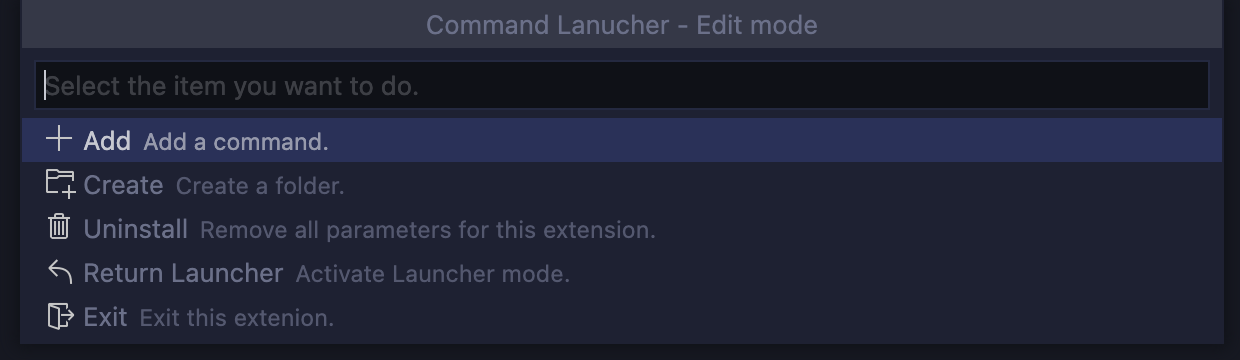
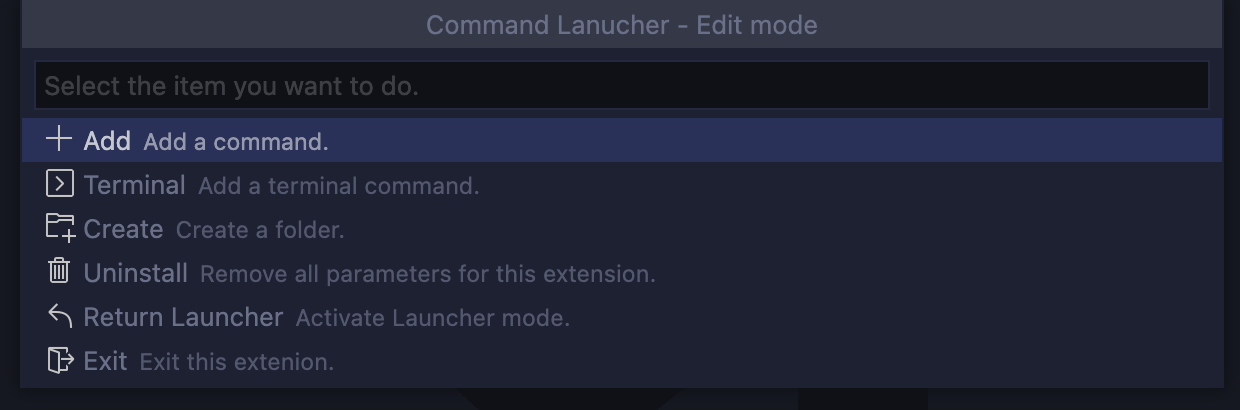
Added the function to also manage commands to be executed in the terminal.

diff --git a/src/test/suite/Scenario/execute.test.ts b/src/test/suite/Scenario/execute.test.ts
@@ -52,6 +52,12 @@ suite('Scenario - Command Execute', async () => {
 				}
 			}
 		},
+		"WordPress開発環境を起動する。": {
+			"command": "wp-env start",
+			"type": 3,
+			"label": "$(run)",
+			"description": "wp-env start を実行します。"
+		},
 		"履歴": {
 			"description": "VSCodeの履歴に関するコマンドセットです。",
 			"label": "$(history)",
@@ -117,11 +123,12 @@ suite('Scenario - Command Execute', async () => {
 	const items        = {
 		back: VSCodePreset.create(VSCodePreset.icons.reply,   'Return', 'Back to previous.'),
 		exit: VSCodePreset.create(VSCodePreset.icons.signOut, 'Exit',   'Exit this extenion.'),
-		"新しいノートを作成する。": { label: "$(notebook) 新しいノートを作成する。", description: "VSNotesで新しいノートを作成します。" } as QuickPickItem,
-		"VSNotes":              { label: "$(notebook-template) VSNotes",     description: "VSNotes関連のコマンドセットです。" } as QuickPickItem,
-		"作成":                  { label: "$(edit) 作成",                     description: "VSNotesのノート作成関連のコマンドセットです。" } as QuickPickItem,
-		"設定":                  { label: "$(settings) 設定",                 description: "VSCodeの設定を行うコマンドセットです。" } as QuickPickItem, 
-		"設定 (JSON) を開く。":   { label: "$(json) 設定 (JSON) を開く。",       description: "設定 (JSON) を開きます。" } as QuickPickItem,
+		"新しいノートを作成する。":       { label: "$(notebook) 新しいノートを作成する。", description: "VSNotesで新しいノートを作成します。" } as QuickPickItem,
+		"VSNotes":                    { label: "$(notebook-template) VSNotes",     description: "VSNotes関連のコマンドセットです。" } as QuickPickItem,
+		"WordPress開発環境を起動する。": { label: "$(run) WordPress開発環境を起動する。", description: "wp-env start を実行します。" } as QuickPickItem,
+		"作成":                        { label: "$(edit) 作成",                     description: "VSNotesのノート作成関連のコマンドセットです。" } as QuickPickItem,
+		"設定":                        { label: "$(settings) 設定",                 description: "VSCodeの設定を行うコマンドセットです。" } as QuickPickItem, 
+		"設定 (JSON) を開く。":         { label: "$(json) 設定 (JSON) を開く。",       description: "設定 (JSON) を開きます。" } as QuickPickItem,
 	};
 
 	test('Menu -> Command', async () => {
@@ -129,7 +136,7 @@ suite('Scenario - Command Execute', async () => {
 		setup.commands = data;
 		await setup.commit();
 
-		const state    = stateCreater();
+		let   state    = stateCreater();
 		const pickStub = sinon.stub(MultiStepInput.prototype, "showQuickPick");
 
 		pickStub.resolves(items['新しいノートを作成する。']);
@@ -137,6 +144,16 @@ suite('Scenario - Command Execute', async () => {
 		await MultiStepInput.run((input: MultiStepInput) => new testTarget.MenuGuide(state, true, context).start(input));
 
 		assert.strictEqual(data['新しいノートを作成する。']['command'], state.command);
+
+		pickStub.reset();
+
+		state          = stateCreater();
+
+		pickStub.resolves(items['WordPress開発環境を起動する。']);
+
+		await MultiStepInput.run((input: MultiStepInput) => new testTarget.MenuGuide(state, true, context).start(input));
+
+		assert.strictEqual(data['WordPress開発環境を起動する。'].command, state.terminalCommand);
 
 		pickStub.restore();
 

diff --git a/src/includes/guide/menu/edit.ts b/src/includes/guide/menu/edit.ts
@@ -10,6 +10,7 @@ import * as Constant                       from '../../constant';
 
 const items = {
 	add:         VSCodePreset.create(VSCodePreset.icons.add,                 'Add',             'Add a command.'),
+	terminal:    VSCodePreset.create(VSCodePreset.icons.terminal,            'Terminal',        'Add a terminal command.'),
 	create:      VSCodePreset.create(VSCodePreset.icons.fileDirectoryCreate, 'Create',          'Create a folder.'),
 	delete:      VSCodePreset.create(VSCodePreset.icons.trashcan,            'Delete',          'delete this item.'),
 	uninstall:   VSCodePreset.create(VSCodePreset.icons.trashcan,            'Uninstall',       'Remove all parameters for this extension.'),
@@ -60,6 +61,7 @@ export class MenuGuideWithEdit extends AbstractMenuGuide {
 
 		switch (label) {
 			case items.add.label:
+			case items.terminal.label:
 			case items.create.label:
 				return this.setGuidance(label);
 			case items.name.label:
@@ -109,7 +111,7 @@ export class MenuGuideWithEdit extends AbstractMenuGuide {
 	private setFolderCommands(settingItems: Array<QuickPickItem>, returnOrBack: Array<QuickPickItem>): void {
 		const commandItems = this.commandItems;
 
-		this.items         = [items.add, items.create].concat(
+		this.items         = [items.add, items.terminal, items.create].concat(
 			this.root               ? [items.uninstall]                  : settingItems
 		).concat(
 			[items.launcher]
@@ -245,12 +247,21 @@ export class MenuGuideWithEdit extends AbstractMenuGuide {
 			guideGroupId = 'add';
 			totalStep    = 4;
 			type         = Constant.DATA_TYPE.command;
+		} else if (items.terminal.label === label) {
+			title        = 'Terminal';
+			guideGroupId = 'addTerminal';
+			totalStep    = 4;
+			type         = Constant.DATA_TYPE.terminalCommand;
 		} else {
 			title        = 'Folder';
 			guideGroupId = 'create';
 			totalStep    = 3;
 			type         = Constant.DATA_TYPE.folder;
 		}
+
+		const temporary: Record<string, unknown> = {};
+		temporary[this.settings.itemId.type]     = type;
+		this.state.resultSet[guideGroupId]       = temporary;
 
 		return async () => {
 			this.setNextSteps([{
@@ -279,7 +290,7 @@ export class MenuGuideWithEdit extends AbstractMenuGuide {
 				break;
 			case items.description.label:
 				itemId                      = this.settings.itemId.description;
-				optionState['prompt']       = `Please enter the description of ${Constant.DATA_TYPE.command === this.type ? 'command' : 'folder'}.`;
+				optionState['prompt']       = `Please enter the description of ${Constant.DATA_TYPE.folder === this.type ? 'folder' : 'command' }.`;
 				optionState['initialValue'] = this.currentCommandInfo[this.settings.itemId.description];
 				break;
 			case items.command.label:

diff --git a/src/test/suite/Scenario/regist.test.ts b/src/test/suite/Scenario/regist.test.ts
@@ -133,7 +133,7 @@ suite('Scenario - Command Regist', async () => {
 				"label": "$(edit)",
 				"type": 2,
 				"ワークスペースに新しいノートを作成する。": {
-					"type": 1,
+					"type": 3,
 					"command": "vsnotes.newNoteInWorkspace",
 					"label": "$(notebook)",
 					"description": "VSNotesでワークスペースに新しいノートを作成します。"
@@ -165,7 +165,7 @@ suite('Scenario - Command Regist', async () => {
 				"label": "$(edit)",
 				"type": 2,
 				"ワークスペースに新しいノートを作成する。": {
-					"type": 1,
+					"type": 3,
 					"command": "vsnotes.newNoteInWorkspace",
 					"label": "$(notebook)",
 					"description": "VSNotesでワークスペースに新しいノートを作成します。"
@@ -178,6 +178,7 @@ suite('Scenario - Command Regist', async () => {
 	const context      = {} as ExtensionContext;
 	const items        = {
 		add:         VSCodePreset.create(VSCodePreset.icons.add,                 'Add',                                    'Add a command.'),
+		terminal:    VSCodePreset.create(VSCodePreset.icons.terminal,            'Terminal',                               'Add a terminal command.'),
 		create:      VSCodePreset.create(VSCodePreset.icons.fileDirectoryCreate, 'Create',                                 'Create a folder.'),
 		delete:      VSCodePreset.create(VSCodePreset.icons.trashcan,            'Delete',                                 'delete this item.'),
 		uninstall:   VSCodePreset.create(VSCodePreset.icons.trashcan,            'Uninstall',                              'Remove all parameters for this extension.'),
@@ -283,7 +284,7 @@ suite('Scenario - Command Regist', async () => {
 		inputStub.onCall(10).resolves(data.VSNotes.作成.description);
 
 		pickStub.onCall(20).resolves({ label: `${data.VSNotes.作成.label} 作成`, description: '' });
-		pickStub.onCall(21).resolves(items.add);
+		pickStub.onCall(21).resolves(items.terminal);
 		pickStub.onCall(22).resolves(items.other);
 		pickStub.onCall(23).resolves(items.n);
 		inputStub.onCall(11).resolves('ワークスペースに新しいノートを作成する。');

diff --git a/src/includes/guide/last.ts b/src/includes/guide/last.ts
@@ -13,6 +13,7 @@ export class BaseLastInputGuide extends BaseInputGuide {
 	protected async lastInputStepExecute(): Promise<void> {
 		this.registName                                   = this.guideGroupResultSet[this.settings.itemId.name] as string;
 
+		this.registData[this.settings.itemId.type]        = this.guideGroupResultSet[this.settings.itemId.type];
 		this.registData[this.settings.itemId.lable]       = (
 			Optional
 				.ofNullable((this.guideGroupResultSet[this.settings.itemId.lable] as string).match(match))
@@ -42,7 +43,6 @@ export class CommandLastInputGuide extends BaseLastInputGuide {
 	}
 
 	protected async lastInputStepExecute(): Promise<void> {
-		this.registData[this.settings.itemId.type]    = Constant.DATA_TYPE.command;
 		this.registData[this.settings.itemId.command] = this.guideGroupResultSet[this.settings.itemId.command];
 
 		await super.lastInputStepExecute();
@@ -55,11 +55,5 @@ export class FolderLastInputGuide extends BaseLastInputGuide {
 
 		this.itemId   = this.settings.itemId.description;
 		this.prompt   = 'Please enter the description of folder.';
-	}
-
-	protected async lastInputStepExecute(): Promise<void> {
-		this.registData[this.settings.itemId.type] = Constant.DATA_TYPE.folder;
-
-		await super.lastInputStepExecute();
 	}
 }

diff --git a/src/includes/kickstarter.ts b/src/includes/kickstarter.ts
@@ -1,6 +1,7 @@
 import {
 	window,
 	commands,
+	Terminal,
 	ExtensionContext
 }                           from 'vscode';
 import { MultiStepInput }   from './utils/multiStepInput';
@@ -19,6 +20,8 @@ export async function start(
 
 		if (present(state.command)) {
 			commands.executeCommand(state.command as string);
+		} else if (present(state.terminalCommand)) {
+			executeTerminalCommand(state.terminalCommand as string);
 		}
 	} catch (e) {
 		errorHandling(e);
@@ -35,6 +38,13 @@ export async function start(
 
 function present(value?: string): boolean {
 	return (value && value.length > 0) ? true : false;
+}
+
+function executeTerminalCommand(command: string): void {
+	const terminal = window.activeTerminal ? window.activeTerminal : window.createTerminal();
+
+	terminal.show();
+	terminal.sendText(command, true);
 }
 
 function errorHandling(e: unknown) {

diff --git a/src/includes/guide/base/base.ts b/src/includes/guide/base/base.ts
@@ -17,6 +17,7 @@ export interface State extends AbstractState {
 	message?:         string                  | undefined,
 	reload?:          boolean,
 	command?:         string,
+	terminalCommand?: string,
 	prompt?:          string,
 	placeholder?:     string,
 	items?:           Array<QuickPickItem>,
@@ -94,7 +95,7 @@ export abstract class AbstractBaseGuide extends AbstractGuide {
 		result[this.settings.itemId.description] = commands[this.settings.itemId.description];
 		result[this.settings.itemId.orderNo]     = Optional.ofNullable(commands[this.settings.itemId.orderNo]).orElseNonNullable('');
 
-		if (Constant.DATA_TYPE.command === result[this.settings.itemId.type]) {
+		if (Constant.DATA_TYPE.folder !== result[this.settings.itemId.type]) {
 			result[this.settings.itemId.command] = commands[this.settings.itemId.command];
 		}
 

diff --git a/src/includes/guide/label.ts b/src/includes/guide/label.ts
@@ -90,10 +90,14 @@ export class SelectLabelGuide4Guidance extends AbstractSelectLabelGuide {
 		const steps:Array<Guide> = [{
 			key:   'NameInputGuide',
 			state: { step: this.step } as Partial<State>,
-			args:  [Constant.DATA_TYPE.command]
+			args:  [this.type]
 		}];
 
-		if (Constant.DATA_TYPE.command === this.type) {
+		if (Constant.DATA_TYPE.folder === this.type) {
+			steps.push(
+				{   key:   'FolderLastInputGuide', state: {} },
+			);
+		} else {
 			steps.push(
 				{
 					key:   'BaseInputGuide',
@@ -103,10 +107,6 @@ export class SelectLabelGuide4Guidance extends AbstractSelectLabelGuide {
 					} as Partial<State>
 				},
 				{   key:   'CommandLastInputGuide', state: {} },
-			);
-		} else {
-			steps.push(
-				{   key:   'FolderLastInputGuide', state: {} },
 			);
 		}
 

diff --git a/src/includes/guide/menu/base.ts b/src/includes/guide/menu/base.ts
@@ -34,7 +34,8 @@ export class MenuGuide extends AbstractMenuGuide {
 
 		if (Constant.DATA_TYPE.command === command[this.settings.itemId.type]) {
 			this.state.command = (command as Command)[this.settings.itemId.command];
-			return undefined;
+		} else if (Constant.DATA_TYPE.terminalCommand === command[this.settings.itemId.type]) {
+			this.state.terminalCommand = (command as Command)[this.settings.itemId.command];
 		} else {
 			const name           = this.getLabelStringByItem;
 
@@ -44,5 +45,7 @@ export class MenuGuide extends AbstractMenuGuide {
 				this.setNextSteps([{ key: 'MenuGuide', state: this.state }]);
 			};
 		}
+
+		return undefined;
 	}
 }

diff --git a/src/includes/guide/name.ts b/src/includes/guide/name.ts
@@ -13,7 +13,7 @@ export class NameInputGuide extends BaseInputGuide {
 
 		this.type     = type;
 		this.itemId   = this.settings.itemId.name;
-		this.prompt   = `Please enter the name of ${Constant.DATA_TYPE.command === this.type ? 'command' : 'folder' }.`;
+		this.prompt   = `Please enter the name of ${Constant.DATA_TYPE.folder === this.type ? 'folder' : 'command' }.`;
 		this.validate = this.validateName;
 	}
 

diff --git a/src/includes/constant.ts b/src/includes/constant.ts
@@ -1,6 +1,7 @@
 export const DATA_TYPE               = {
-	command: 1,
-	folder:  2,
+	command:         1,
+	terminalCommand: 3,
+	folder:          2,
 } as const;
 
 export type DataType                 = typeof DATA_TYPE[keyof typeof DATA_TYPE];

diff --git a/src/test/suite/includes/kickstarter.test.ts b/src/test/suite/includes/kickstarter.test.ts
@@ -1,4 +1,3 @@
-import * as assert           from 'assert';
 import * as sinon            from 'sinon';
 import * as vscode           from 'vscode';
 import * as testTarget       from '../../../includes/kickstarter';

diff --git a/README.md b/README.md
@@ -2,7 +2,7 @@
 
 ![GitHub package.json dynamic](https://img.shields.io/github/package-json/categories/angelmaneuver/command-launcher?color=green) ![Visual Studio Marketplace Last Updated](https://img.shields.io/visual-studio-marketplace/last-updated/angelmaneuver.command-launcher) ![Visual Studio Marketplace Installs](https://img.shields.io/visual-studio-marketplace/i/Angelmaneuver.command-launcher) ![GitHub Workflow Status](https://img.shields.io/github/workflow/status/angelmaneuver/command-launcher/Command%20Launcher%20CI) [![Maintainability](https://api.codeclimate.com/v1/badges/423732b5edf0ced05786/maintainability)](https://codeclimate.com/github/Angelmaneuver/command-launcher/maintainability) [![Test Coverage](https://api.codeclimate.com/v1/badges/423732b5edf0ced05786/test_coverage)](https://codeclimate.com/github/Angelmaneuver/command-launcher/test_coverage) [![License](https://img.shields.io/github/license/Angelmaneuver/command-launcher)](LICENSE)
 
-A launcher extension that manages commands for the command palette.
+A launcher extension that manages commands for the command palette and terminal command.
 
 ## Usage
 ### Step1.
@@ -45,6 +45,11 @@ First, "`Command Pallete`" -> "`Gear`" in that order.
 The value entered in the filter is the value of the command you wish to call.
 
 ![Checkout2-2 image](resource/readme/demo4.png)
+
+### Command - Execute Terminal's command
+You can execute terminal commands from the menu.
+
+![Execute terminal command image](resource/readme/demo7.gif)
 
 ### Folder
 You can create folders to manage commands.
